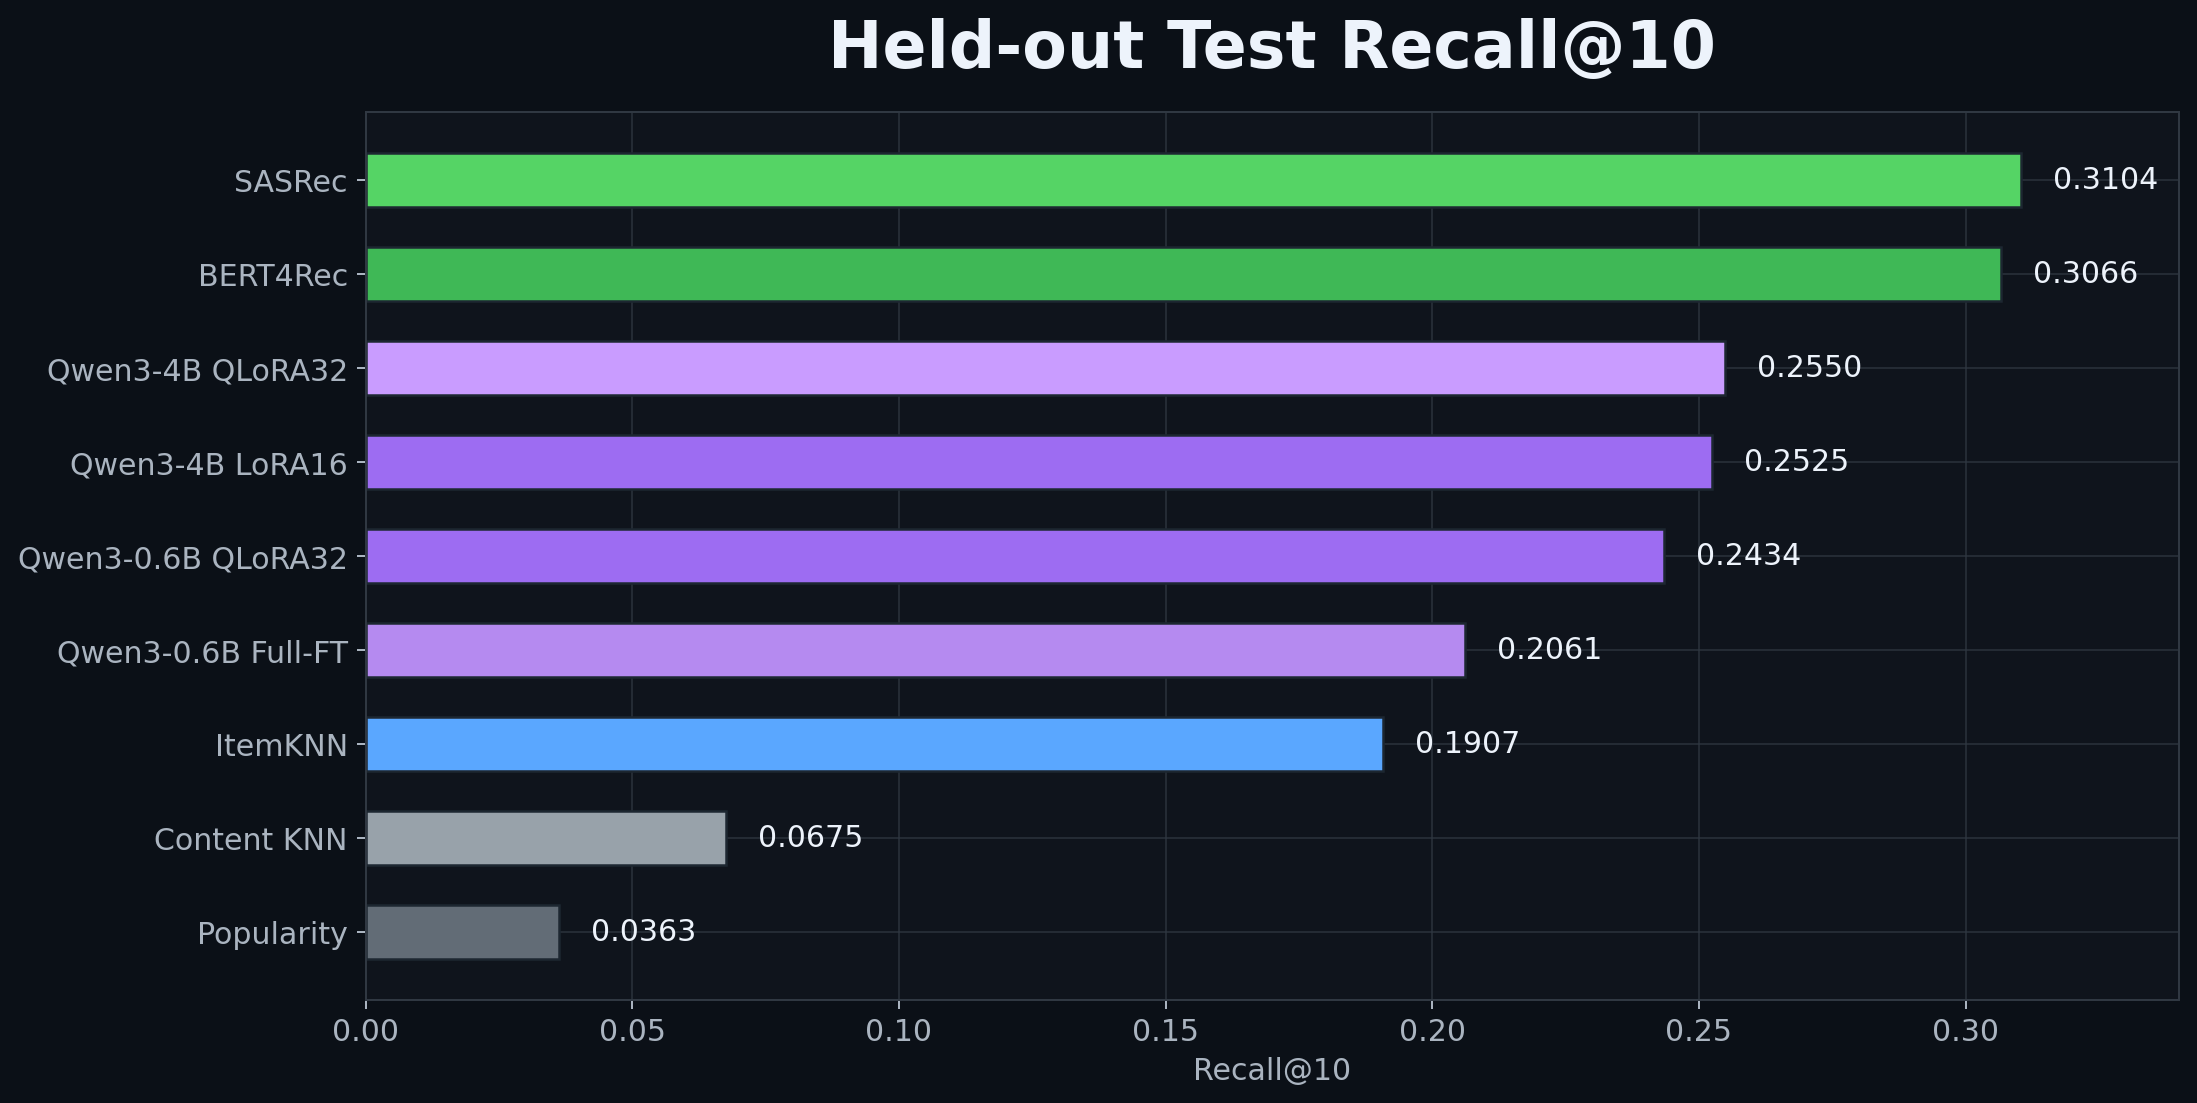
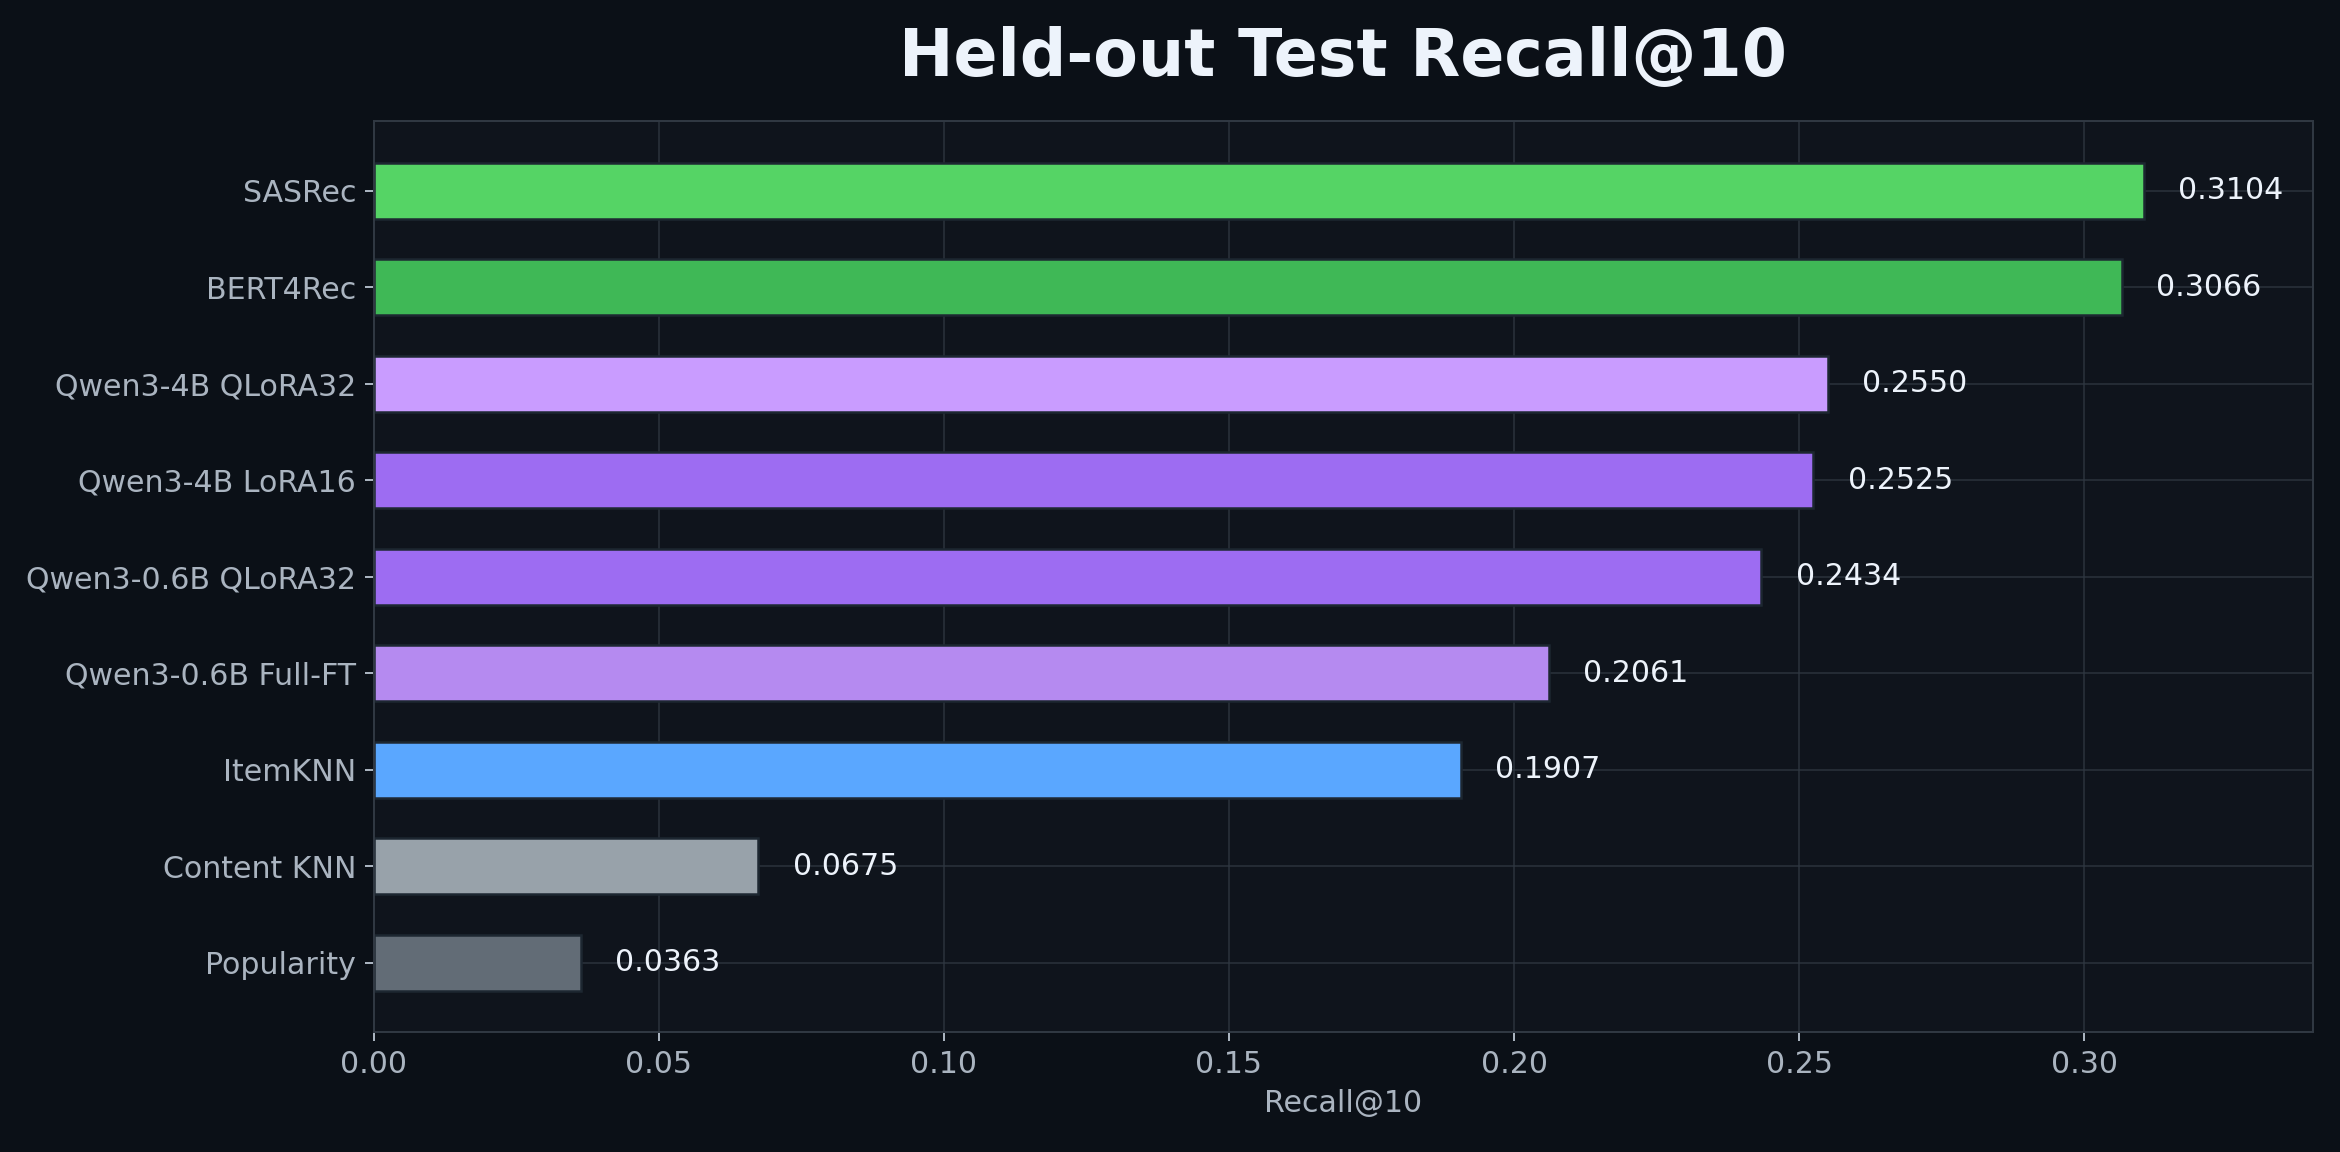
align chart styling

diff --git a/scripts/experiments/plot_qwen3_peft_and_codebook_ablation.py b/scripts/experiments/plot_qwen3_peft_and_codebook_ablation.py
@@ -24,6 +24,10 @@ BLUE = "#5aa7ff"
 PURPLE = "#c99cff"
 VIOLET = "#9d6cf2"
 GRAY = "#9aa4ad"
+FIGSIZE = (13, 6.4)
+DPI = 180
+TITLE_FONTSIZE = 26
+TITLE_PAD = 18
 
 
 def read_json(path: str):
@@ -61,8 +65,13 @@ def setup_axes(ax):
 
 def save(fig, name: str):
     ASSET_DIR.mkdir(parents=True, exist_ok=True)
-    fig.savefig(ASSET_DIR / name, dpi=180, bbox_inches="tight", facecolor=BG)
+    fig.tight_layout(pad=1.1)
+    fig.savefig(ASSET_DIR / name, dpi=DPI, facecolor=BG)
     plt.close(fig)
+
+
+def set_title(ax, title: str):
+    ax.set_title(title, color=TEXT, fontsize=TITLE_FONTSIZE, weight="bold", pad=TITLE_PAD)
 
 
 def plot_qlora_vs_fullft_dynamics():
@@ -75,9 +84,9 @@ def plot_qlora_vs_fullft_dynamics():
         "sft_qwen3_0_6b_fullft_cpt_fullft_sid_v2_next_watch_w16_allseen_pat3_v1/metrics.json"
     )
 
-    fig, ax = plt.subplots(figsize=(12, 5.2), facecolor=BG)
+    fig, ax = plt.subplots(figsize=FIGSIZE, facecolor=BG)
     setup_axes(ax)
-    ax.set_title("Qwen3-0.6B Validation Dynamics", color=TEXT, fontsize=26, weight="bold", pad=18)
+    set_title(ax, "Qwen3-0.6B Validation Dynamics")
 
     for rows, label, color, linestyle in [
         (qlora, "QLoRA32 Recall@10", GREEN, "-"),
@@ -134,9 +143,9 @@ def plot_qlora_vs_fullft_test():
     metrics = ["recall@1", "recall@5", "recall@10", "ndcg@10", "mrr@10"]
     labels = ["Recall@1", "Recall@5", "Recall@10", "NDCG@10", "MRR@10"]
 
-    fig, ax = plt.subplots(figsize=(12, 5.2), facecolor=BG)
+    fig, ax = plt.subplots(figsize=FIGSIZE, facecolor=BG)
     setup_axes(ax)
-    ax.set_title("Qwen3-0.6B Test Metrics", color=TEXT, fontsize=26, weight="bold", pad=18)
+    set_title(ax, "Qwen3-0.6B Test Metrics")
 
     x = range(len(metrics))
     width = 0.34
@@ -193,9 +202,9 @@ def plot_codebook_ablation():
         ),
     ]
 
-    fig, ax = plt.subplots(figsize=(12, 5.2), facecolor=BG)
+    fig, ax = plt.subplots(figsize=FIGSIZE, facecolor=BG)
     setup_axes(ax)
-    ax.set_title("SID Depth Ablation: Held-out Test Recall@10", color=TEXT, fontsize=26, weight="bold", pad=18)
+    set_title(ax, "SID Depth Ablation")
 
     labels = [r[0] for r in rows]
     values = [r[1]["recall@10"] for r in rows]
@@ -255,9 +264,9 @@ def plot_heldout_recall10():
     ]
     rows = sorted(rows, key=lambda row: row[1], reverse=True)
 
-    fig, ax = plt.subplots(figsize=(13, 6.4), facecolor=BG)
+    fig, ax = plt.subplots(figsize=FIGSIZE, facecolor=BG)
     setup_axes(ax)
-    ax.set_title("Held-out Test Recall@10", color=TEXT, fontsize=26, weight="bold", pad=18)
+    set_title(ax, "Held-out Test Recall@10")
 
     labels = [row[0] for row in rows]
     values = [row[1] for row in rows]
